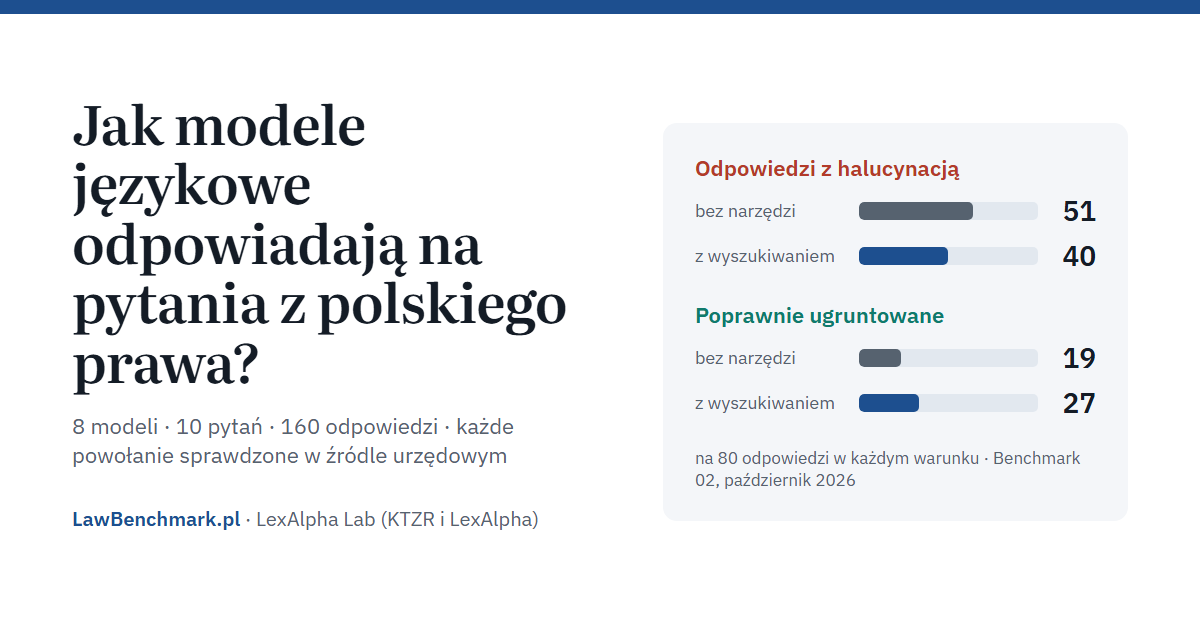
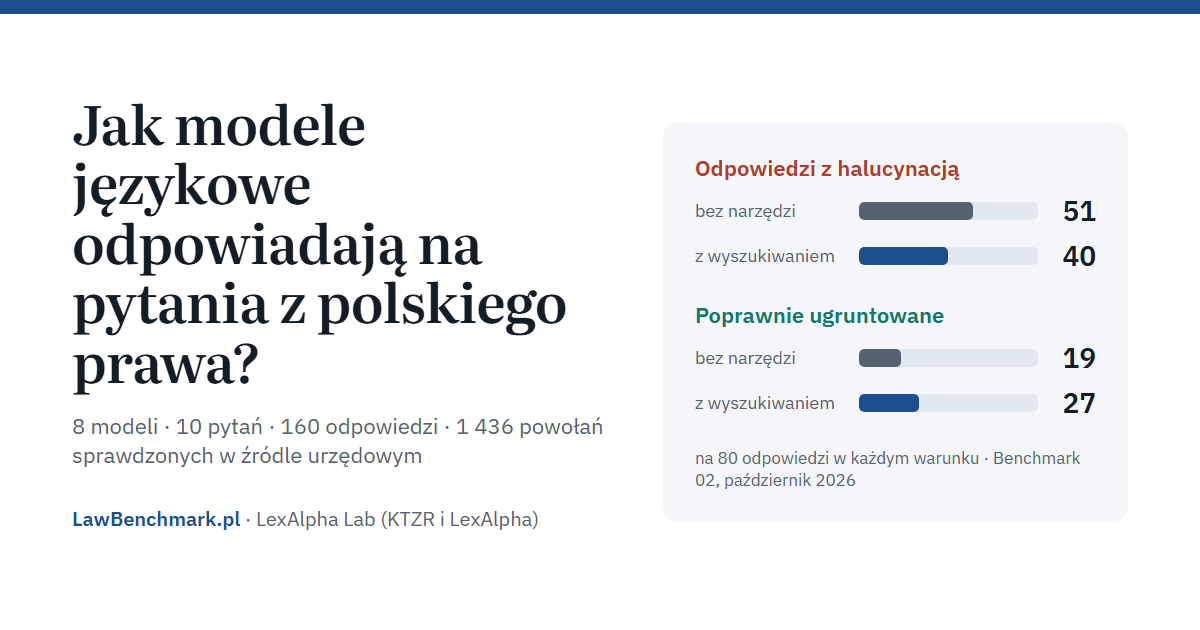
SEO: krótsze tytuły i opisy, llms.txt, OG z 1 436 sprawdzonymi powołaniami

Changed region(s): [[0.0617, 0.6635, 0.5242, 0.754]]

diff --git a/site/dane/index.html b/site/dane/index.html
@@ -3,12 +3,12 @@
 <head>
 <meta charset="utf-8">
 <meta name="viewport" content="width=device-width, initial-scale=1">
-<title>Dane i kod — LawBenchmark.pl</title>
-<meta name="description" content="Zbiór danych Benchmarku 02: 10 pytań z kluczami, 160 odpowiedzi modeli, 160 kart z klasami błędów, oceny sędziów-modeli, warstwa weryfikacji, skrypty odtwarzające każdą liczbę. CC BY 4.0 / MIT.">
+<title>Dane benchmarku AI: pytania, klucze, karty · LawBenchmark.pl</title>
+<meta name="description" content="Zbiór Benchmarku 02: 10 pytań z kluczami, 160 odpowiedzi modeli AI z kartami ocen, oceny sędziów-modeli i skrypty. CC BY 4.0 / MIT, GitHub i Hugging Face.">
 <link rel="canonical" href="https://lawbenchmark.pl/dane">
 <meta name="robots" content="index, follow, max-image-preview:large">
-<meta property="og:title" content="Dane i kod — LawBenchmark.pl">
-<meta property="og:description" content="Zbiór danych Benchmarku 02: 10 pytań z kluczami, 160 odpowiedzi modeli, 160 kart z klasami błędów, oceny sędziów-modeli, warstwa weryfikacji, skrypty odtwarzające każdą liczbę. CC BY 4.0 / MIT.">
+<meta property="og:title" content="Dane benchmarku AI: pytania, klucze, karty · LawBenchmark.pl">
+<meta property="og:description" content="Zbiór Benchmarku 02: 10 pytań z kluczami, 160 odpowiedzi modeli AI z kartami ocen, oceny sędziów-modeli i skrypty. CC BY 4.0 / MIT, GitHub i Hugging Face.">
 <meta property="og:type" content="article">
 <meta property="og:url" content="https://lawbenchmark.pl/dane">
 <meta property="og:site_name" content="LawBenchmark.pl">
@@ -262,7 +262,7 @@ footer{background:transparent} footer h4{font-family:var(--mono)} footer .marki 
 <tr><td><code>SPEC/</code></td><td>specyfikacja oceny v1.0.4 (punktacja jak w 1.0.1) z rejestrem datowanych decyzji (dokument wewnętrzny w postaci użytej, po przeglądzie pod kątem danych osobowych i wewnętrznych identyfikatorów)</td><td class="num">1</td></tr>
 <tr><td><code>keys/</code></td><td>klucze dziesięciu pytań: rdzeń, rubryka, kary, podstawy wymagane, źródła sprawdzone, wersja i status</td><td class="num">10</td></tr>
 <tr><td><code>answers/</code></td><td>odpowiedzi systemów w postaci zwróconej, ze śladem narzędzi tam, gdzie narzędzie go zapisuje</td><td class="num">160</td></tr>
-<tr><td><code>cards/</code></td><td>karty wzorcowe: punkty A/B, klasy błędów, pochodzenie i zakres, każde powołanie sprawdzone, data wersji</td><td class="num">160</td></tr>
+<tr><td><code>cards/</code></td><td>karty wzorcowe: punkty A/B, klasy błędów, pochodzenie i zakres, wynik sprawdzenia każdego powołania, data wersji</td><td class="num">160</td></tr>
 <tr><td><code>judges/</code></td><td>oceny pięciu sędziów-modeli oraz wariantów „sędzia z raportem weryfikacji”</td><td class="num">1 319</td></tr>
 <tr><td><code>verification/</code></td><td>raporty warstwy weryfikacji: krok faktów (kod) i weryfikator poparcia (model), per karta i zbiorcze</td><td class="num">2 184</td></tr>
 <tr><td><code>costs/</code></td><td>cennik z 18.10.2026 ze źródłami i koszt na odpowiedź (równoważnik API)</td><td class="num">—</td></tr>

diff --git a/site/wspolpraca/index.html b/site/wspolpraca/index.html
@@ -3,12 +3,12 @@
 <head>
 <meta charset="utf-8">
 <meta name="viewport" content="width=device-width, initial-scale=1">
-<title>Współpraca — badanie systemów AI na pytaniach z polskiego prawa · LawBenchmark.pl</title>
-<meta name="description" content="Zasady współpracy z LawBenchmark.pl: badanie systemów prawniczych na 40 niepublicznych pytaniach (warunki ustalane indywidualnie, ochrona pytań, niezależność oceny), współpraca naukowa, wykorzystanie wyników w kancelariach, cytowanie.">
+<title>Współpraca: test systemu AI na polskim prawie · LawBenchmark</title>
+<meta name="description" content="Badanie systemu prawniczego AI na 40 niepublicznych pytaniach z polskiego prawa: warunki ustalane indywidualnie, niezależna ocena, współpraca naukowa.">
 <link rel="canonical" href="https://lawbenchmark.pl/wspolpraca">
 <meta name="robots" content="index, follow, max-image-preview:large">
-<meta property="og:title" content="Współpraca — badanie systemów AI na pytaniach z polskiego prawa · LawBenchmark.pl">
-<meta property="og:description" content="Zasady współpracy z LawBenchmark.pl: badanie systemów prawniczych na 40 niepublicznych pytaniach (warunki ustalane indywidualnie, ochrona pytań, niezależność oceny), współpraca naukowa, wykorzystanie wyników w kancelariach, cytowanie.">
+<meta property="og:title" content="Współpraca: test systemu AI na polskim prawie · LawBenchmark">
+<meta property="og:description" content="Badanie systemu prawniczego AI na 40 niepublicznych pytaniach z polskiego prawa: warunki ustalane indywidualnie, niezależna ocena, współpraca naukowa.">
 <meta property="og:type" content="article">
 <meta property="og:url" content="https://lawbenchmark.pl/wspolpraca">
 <meta property="og:site_name" content="LawBenchmark.pl">

diff --git a/site/en/index.html b/site/en/index.html
@@ -3,15 +3,15 @@
 <head>
 <meta charset="utf-8">
 <meta name="viewport" content="width=device-width, initial-scale=1">
-<title>LawBenchmark.pl — language models and Polish law</title>
-<meta name="description" content="Benchmark of language models on Polish legal questions: correctness, hallucinations (classes F/T/W/S) and grounding in official sources, with and without web search. LexAlpha Lab, KTZR.">
+<title>LLM benchmark on Polish law · LawBenchmark.pl</title>
+<meta name="description" content="How LLMs (GPT, Claude, Gemini) answer Polish legal questions: hallucinations and grounding in official sources, with and without web search.">
 <link rel="canonical" href="https://lawbenchmark.pl/en">
 <link rel="alternate" hreflang="pl" href="https://lawbenchmark.pl/">
 <link rel="alternate" hreflang="en" href="https://lawbenchmark.pl/en">
 <link rel="alternate" hreflang="x-default" href="https://lawbenchmark.pl/">
 <meta name="robots" content="index, follow, max-image-preview:large">
-<meta property="og:title" content="LawBenchmark.pl — language models and Polish law">
-<meta property="og:description" content="Benchmark of language models on Polish legal questions: correctness, hallucinations (classes F/T/W/S) and grounding in official sources, with and without web search. LexAlpha Lab, KTZR.">
+<meta property="og:title" content="LLM benchmark on Polish law · LawBenchmark.pl">
+<meta property="og:description" content="How LLMs (GPT, Claude, Gemini) answer Polish legal questions: hallucinations and grounding in official sources, with and without web search.">
 <meta property="og:type" content="article">
 <meta property="og:url" content="https://lawbenchmark.pl/en">
 <meta property="og:site_name" content="LawBenchmark.pl">

diff --git a/site/benchmark/02/pytania/p04/index.html b/site/benchmark/02/pytania/p04/index.html
@@ -3,12 +3,12 @@
 <head>
 <meta charset="utf-8">
 <meta name="viewport" content="width=device-width, initial-scale=1">
-<title>Zezwolenie na nabycie nieruchomości przez cudzoziemca: ostateczność czy prawomocność — P04 · LawBenchmark.pl</title>
-<meta name="description" content="Pytanie P04 Benchmarku 02 (postępowanie administracyjne): brzmienie, pułapka, klucz odpowiedzi i wyniki ośmiu modeli językowych bez narzędzi i z wyszukiwaniem.">
+<title>P04: Ostateczność a prawomocność zezwolenia · LawBenchmark</title>
+<meta name="description" content="Jak 8 modeli AI (GPT, Claude, Gemini) odpowiedziało na pytanie P04 (postępowanie administracyjne): brzmienie, pułapka, klucz i wyniki.">
 <link rel="canonical" href="https://lawbenchmark.pl/benchmark/02/pytania/p04">
 <meta name="robots" content="index, follow, max-image-preview:large">
-<meta property="og:title" content="Zezwolenie na nabycie nieruchomości przez cudzoziemca: ostateczność czy prawomocność — P04 · LawBenchmark.pl">
-<meta property="og:description" content="Pytanie P04 Benchmarku 02 (postępowanie administracyjne): brzmienie, pułapka, klucz odpowiedzi i wyniki ośmiu modeli językowych bez narzędzi i z wyszukiwaniem.">
+<meta property="og:title" content="P04: Ostateczność a prawomocność zezwolenia · LawBenchmark">
+<meta property="og:description" content="Jak 8 modeli AI (GPT, Claude, Gemini) odpowiedziało na pytanie P04 (postępowanie administracyjne): brzmienie, pułapka, klucz i wyniki.">
 <meta property="og:type" content="article">
 <meta property="og:url" content="https://lawbenchmark.pl/benchmark/02/pytania/p04">
 <meta property="og:site_name" content="LawBenchmark.pl">

diff --git a/site/index.html b/site/index.html
@@ -3,15 +3,15 @@
 <head>
 <meta charset="utf-8">
 <meta name="viewport" content="width=device-width, initial-scale=1">
-<title>LawBenchmark.pl — modele językowe a polskie prawo</title>
-<meta name="description" content="Jak modele językowe odpowiadają na pytania z polskiego prawa: poprawność, halucynacje i oparcie w źródłach urzędowych, bez narzędzi i z wyszukiwaniem. Projekt LexAlpha Lab.">
+<title>Benchmark modeli AI w polskim prawie · LawBenchmark.pl</title>
+<meta name="description" content="Jak modele AI (GPT, Claude, Gemini) odpowiadają na pytania z polskiego prawa: halucynacje i źródła, bez narzędzi i z wyszukiwaniem. LexAlpha Lab.">
 <link rel="canonical" href="https://lawbenchmark.pl/">
 <link rel="alternate" hreflang="pl" href="https://lawbenchmark.pl/">
 <link rel="alternate" hreflang="en" href="https://lawbenchmark.pl/en">
 <link rel="alternate" hreflang="x-default" href="https://lawbenchmark.pl/">
 <meta name="robots" content="index, follow, max-image-preview:large">
-<meta property="og:title" content="LawBenchmark.pl — modele językowe a polskie prawo">
-<meta property="og:description" content="Benchmark 02: 8 modeli, 10 pytań, 160 odpowiedzi, każde powołanie sprawdzone w źródle urzędowym.">
+<meta property="og:title" content="Benchmark modeli AI w polskim prawie · LawBenchmark.pl">
+<meta property="og:description" content="Benchmark 02: 8 modeli AI, 10 pytań, 160 odpowiedzi, 1 436 powołań sprawdzonych w źródle urzędowym.">
 <meta property="og:type" content="website">
 <meta property="og:url" content="https://lawbenchmark.pl/">
 <meta property="og:site_name" content="LawBenchmark.pl">

diff --git a/site/benchmark/01/index.html b/site/benchmark/01/index.html
@@ -3,12 +3,12 @@
 <head>
 <meta charset="utf-8">
 <meta name="viewport" content="width=device-width, initial-scale=1">
-<title>Kazus SKD: termin na oświadczenie o sankcji kredytu darmowego — Benchmark 01 · LawBenchmark.pl</title>
-<meta name="description" content="Pilotaż: jak modele językowe analizują fikcyjny kazus o terminie z art. 45 ust. 5 u.k.k. Treść kazusu, metryka, wyniki 17 odpowiedzi modeli ogólnych, klucz i dane.">
+<title>Kazus SKD: AI a sankcja kredytu darmowego · LawBenchmark</title>
+<meta name="description" content="Pilotaż: jak modele AI analizują fikcyjny kazus o terminie z art. 45 ust. 5 u.k.k. Treść kazusu, metryka, wyniki 17 odpowiedzi, klucz i dane.">
 <link rel="canonical" href="https://lawbenchmark.pl/benchmark/01">
 <meta name="robots" content="index, follow, max-image-preview:large">
-<meta property="og:title" content="Kazus SKD: termin na oświadczenie o sankcji kredytu darmowego — Benchmark 01 · LawBenchmark.pl">
-<meta property="og:description" content="Pilotaż: jak modele językowe analizują fikcyjny kazus o terminie z art. 45 ust. 5 u.k.k. Treść kazusu, metryka, wyniki 17 odpowiedzi modeli ogólnych, klucz i dane.">
+<meta property="og:title" content="Kazus SKD: AI a sankcja kredytu darmowego · LawBenchmark">
+<meta property="og:description" content="Pilotaż: jak modele AI analizują fikcyjny kazus o terminie z art. 45 ust. 5 u.k.k. Treść kazusu, metryka, wyniki 17 odpowiedzi, klucz i dane.">
 <meta property="og:type" content="article">
 <meta property="og:url" content="https://lawbenchmark.pl/benchmark/01">
 <meta property="og:site_name" content="LawBenchmark.pl">

diff --git a/site/metodologia/index.html b/site/metodologia/index.html
@@ -3,12 +3,12 @@
 <head>
 <meta charset="utf-8">
 <meta name="viewport" content="width=device-width, initial-scale=1">
-<title>Jak oceniamy modele AI w polskim prawie — metodologia · LawBenchmark.pl</title>
-<meta name="description" content="Zasady Benchmarku 02: pytania, klucze odpowiedzi, ocena błędów w powołaniach przepisów i orzeczeń, weryfikacja źródeł, sędziowie-modele, warunki badania i ograniczenia.">
+<title>Jak oceniamy modele AI w polskim prawie · LawBenchmark.pl</title>
+<meta name="description" content="Metodologia Benchmarku 02: pytania, klucze, klasy halucynacji w powołaniach przepisów i orzeczeń, weryfikacja u źródła, sędziowie-modele, ograniczenia.">
 <link rel="canonical" href="https://lawbenchmark.pl/metodologia">
 <meta name="robots" content="index, follow, max-image-preview:large">
-<meta property="og:title" content="Jak oceniamy modele AI w polskim prawie — metodologia · LawBenchmark.pl">
-<meta property="og:description" content="Zasady Benchmarku 02: pytania, klucze odpowiedzi, ocena błędów w powołaniach przepisów i orzeczeń, weryfikacja źródeł, sędziowie-modele, warunki badania i ograniczenia.">
+<meta property="og:title" content="Jak oceniamy modele AI w polskim prawie · LawBenchmark.pl">
+<meta property="og:description" content="Metodologia Benchmarku 02: pytania, klucze, klasy halucynacji w powołaniach przepisów i orzeczeń, weryfikacja u źródła, sędziowie-modele, ograniczenia.">
 <meta property="og:type" content="article">
 <meta property="og:url" content="https://lawbenchmark.pl/metodologia">
 <meta property="og:site_name" content="LawBenchmark.pl">

diff --git a/site/benchmark/02/pytania/p05/index.html b/site/benchmark/02/pytania/p05/index.html
@@ -3,12 +3,12 @@
 <head>
 <meta charset="utf-8">
 <meta name="viewport" content="width=device-width, initial-scale=1">
-<title>Doręczenia pism sądowych osobie fizycznej przez Portal Informacyjny — P05 · LawBenchmark.pl</title>
-<meta name="description" content="Pytanie P05 Benchmarku 02 (postępowanie cywilne): brzmienie, pułapka, klucz odpowiedzi i wyniki ośmiu modeli językowych bez narzędzi i z wyszukiwaniem.">
+<title>P05: Doręczenia przez Portal Informacyjny · LawBenchmark</title>
+<meta name="description" content="Jak 8 modeli AI (GPT, Claude, Gemini) odpowiedziało na pytanie P05 (postępowanie cywilne): brzmienie, pułapka, klucz i wyniki.">
 <link rel="canonical" href="https://lawbenchmark.pl/benchmark/02/pytania/p05">
 <meta name="robots" content="index, follow, max-image-preview:large">
-<meta property="og:title" content="Doręczenia pism sądowych osobie fizycznej przez Portal Informacyjny — P05 · LawBenchmark.pl">
-<meta property="og:description" content="Pytanie P05 Benchmarku 02 (postępowanie cywilne): brzmienie, pułapka, klucz odpowiedzi i wyniki ośmiu modeli językowych bez narzędzi i z wyszukiwaniem.">
+<meta property="og:title" content="P05: Doręczenia przez Portal Informacyjny · LawBenchmark">
+<meta property="og:description" content="Jak 8 modeli AI (GPT, Claude, Gemini) odpowiedziało na pytanie P05 (postępowanie cywilne): brzmienie, pułapka, klucz i wyniki.">
 <meta property="og:type" content="article">
 <meta property="og:url" content="https://lawbenchmark.pl/benchmark/02/pytania/p05">
 <meta property="og:site_name" content="LawBenchmark.pl">

diff --git a/site/benchmark/02/pytania/p10/index.html b/site/benchmark/02/pytania/p10/index.html
@@ -3,12 +3,12 @@
 <head>
 <meta charset="utf-8">
 <meta name="viewport" content="width=device-width, initial-scale=1">
-<title>Ogólny zapis o polach eksploatacji: wersja pytania z sugestią, że wystarcza — P10 · LawBenchmark.pl</title>
-<meta name="description" content="Pytanie P10 Benchmarku 02 (prawo autorskie): brzmienie, pułapka, klucz odpowiedzi i wyniki ośmiu modeli językowych bez narzędzi i z wyszukiwaniem.">
+<title>P10: Pola eksploatacji: wersja z sugestią · LawBenchmark</title>
+<meta name="description" content="Jak 8 modeli AI (GPT, Claude, Gemini) odpowiedziało na pytanie P10 (prawo autorskie): brzmienie, pułapka, klucz i wyniki.">
 <link rel="canonical" href="https://lawbenchmark.pl/benchmark/02/pytania/p10">
 <meta name="robots" content="index, follow, max-image-preview:large">
-<meta property="og:title" content="Ogólny zapis o polach eksploatacji: wersja pytania z sugestią, że wystarcza — P10 · LawBenchmark.pl">
-<meta property="og:description" content="Pytanie P10 Benchmarku 02 (prawo autorskie): brzmienie, pułapka, klucz odpowiedzi i wyniki ośmiu modeli językowych bez narzędzi i z wyszukiwaniem.">
+<meta property="og:title" content="P10: Pola eksploatacji: wersja z sugestią · LawBenchmark">
+<meta property="og:description" content="Jak 8 modeli AI (GPT, Claude, Gemini) odpowiedziało na pytanie P10 (prawo autorskie): brzmienie, pułapka, klucz i wyniki.">
 <meta property="og:type" content="article">
 <meta property="og:url" content="https://lawbenchmark.pl/benchmark/02/pytania/p10">
 <meta property="og:site_name" content="LawBenchmark.pl">

diff --git a/site/benchmark/02/pytania/p12/index.html b/site/benchmark/02/pytania/p12/index.html
@@ -3,12 +3,12 @@
 <head>
 <meta charset="utf-8">
 <meta name="viewport" content="width=device-width, initial-scale=1">
-<title>Klauzula wykonalności przeciwko małżonkowi dłużnika — P12 · LawBenchmark.pl</title>
-<meta name="description" content="Pytanie P12 Benchmarku 02 (postępowanie cywilne): brzmienie, pułapka, klucz odpowiedzi i wyniki ośmiu modeli językowych bez narzędzi i z wyszukiwaniem.">
+<title>P12: Klauzula wykonalności a małżonek · LawBenchmark</title>
+<meta name="description" content="Jak 8 modeli AI (GPT, Claude, Gemini) odpowiedziało na pytanie P12 (postępowanie cywilne): brzmienie, pułapka, klucz i wyniki.">
 <link rel="canonical" href="https://lawbenchmark.pl/benchmark/02/pytania/p12">
 <meta name="robots" content="index, follow, max-image-preview:large">
-<meta property="og:title" content="Klauzula wykonalności przeciwko małżonkowi dłużnika — P12 · LawBenchmark.pl">
-<meta property="og:description" content="Pytanie P12 Benchmarku 02 (postępowanie cywilne): brzmienie, pułapka, klucz odpowiedzi i wyniki ośmiu modeli językowych bez narzędzi i z wyszukiwaniem.">
+<meta property="og:title" content="P12: Klauzula wykonalności a małżonek · LawBenchmark">
+<meta property="og:description" content="Jak 8 modeli AI (GPT, Claude, Gemini) odpowiedziało na pytanie P12 (postępowanie cywilne): brzmienie, pułapka, klucz i wyniki.">
 <meta property="og:type" content="article">
 <meta property="og:url" content="https://lawbenchmark.pl/benchmark/02/pytania/p12">
 <meta property="og:site_name" content="LawBenchmark.pl">

diff --git a/site/benchmark/02/pytania/p01/index.html b/site/benchmark/02/pytania/p01/index.html
@@ -3,12 +3,12 @@
 <head>
 <meta charset="utf-8">
 <meta name="viewport" content="width=device-width, initial-scale=1">
-<title>Próg wykroczenia przeciwko mieniu a płaca minimalna — P01 · LawBenchmark.pl</title>
-<meta name="description" content="Pytanie P01 Benchmarku 02 (prawo wykroczeń): brzmienie, pułapka, klucz odpowiedzi i wyniki ośmiu modeli językowych bez narzędzi i z wyszukiwaniem.">
+<title>P01: Próg wykroczenia a płaca minimalna · LawBenchmark</title>
+<meta name="description" content="Jak 8 modeli AI (GPT, Claude, Gemini) odpowiedziało na pytanie P01 (prawo wykroczeń): brzmienie, pułapka, klucz i wyniki.">
 <link rel="canonical" href="https://lawbenchmark.pl/benchmark/02/pytania/p01">
 <meta name="robots" content="index, follow, max-image-preview:large">
-<meta property="og:title" content="Próg wykroczenia przeciwko mieniu a płaca minimalna — P01 · LawBenchmark.pl">
-<meta property="og:description" content="Pytanie P01 Benchmarku 02 (prawo wykroczeń): brzmienie, pułapka, klucz odpowiedzi i wyniki ośmiu modeli językowych bez narzędzi i z wyszukiwaniem.">
+<meta property="og:title" content="P01: Próg wykroczenia a płaca minimalna · LawBenchmark">
+<meta property="og:description" content="Jak 8 modeli AI (GPT, Claude, Gemini) odpowiedziało na pytanie P01 (prawo wykroczeń): brzmienie, pułapka, klucz i wyniki.">
 <meta property="og:type" content="article">
 <meta property="og:url" content="https://lawbenchmark.pl/benchmark/02/pytania/p01">
 <meta property="og:site_name" content="LawBenchmark.pl">

diff --git a/site/benchmark/02/pytania/p09/index.html b/site/benchmark/02/pytania/p09/index.html
@@ -3,12 +3,12 @@
 <head>
 <meta charset="utf-8">
 <meta name="viewport" content="width=device-width, initial-scale=1">
-<title>Ogólny zapis o „wszelkich polach eksploatacji” w umowie zlecenia — P09 · LawBenchmark.pl</title>
-<meta name="description" content="Pytanie P09 Benchmarku 02 (prawo autorskie): brzmienie, klucz odpowiedzi i wyniki ośmiu modeli językowych bez narzędzi i z wyszukiwaniem.">
+<title>P09: „Wszelkie pola eksploatacji” w umowie · LawBenchmark</title>
+<meta name="description" content="Jak 8 modeli AI (GPT, Claude, Gemini) odpowiedziało na pytanie P09 (prawo autorskie): brzmienie, klucz i wyniki.">
 <link rel="canonical" href="https://lawbenchmark.pl/benchmark/02/pytania/p09">
 <meta name="robots" content="index, follow, max-image-preview:large">
-<meta property="og:title" content="Ogólny zapis o „wszelkich polach eksploatacji” w umowie zlecenia — P09 · LawBenchmark.pl">
-<meta property="og:description" content="Pytanie P09 Benchmarku 02 (prawo autorskie): brzmienie, klucz odpowiedzi i wyniki ośmiu modeli językowych bez narzędzi i z wyszukiwaniem.">
+<meta property="og:title" content="P09: „Wszelkie pola eksploatacji” w umowie · LawBenchmark">
+<meta property="og:description" content="Jak 8 modeli AI (GPT, Claude, Gemini) odpowiedziało na pytanie P09 (prawo autorskie): brzmienie, klucz i wyniki.">
 <meta property="og:type" content="article">
 <meta property="og:url" content="https://lawbenchmark.pl/benchmark/02/pytania/p09">
 <meta property="og:site_name" content="LawBenchmark.pl">
